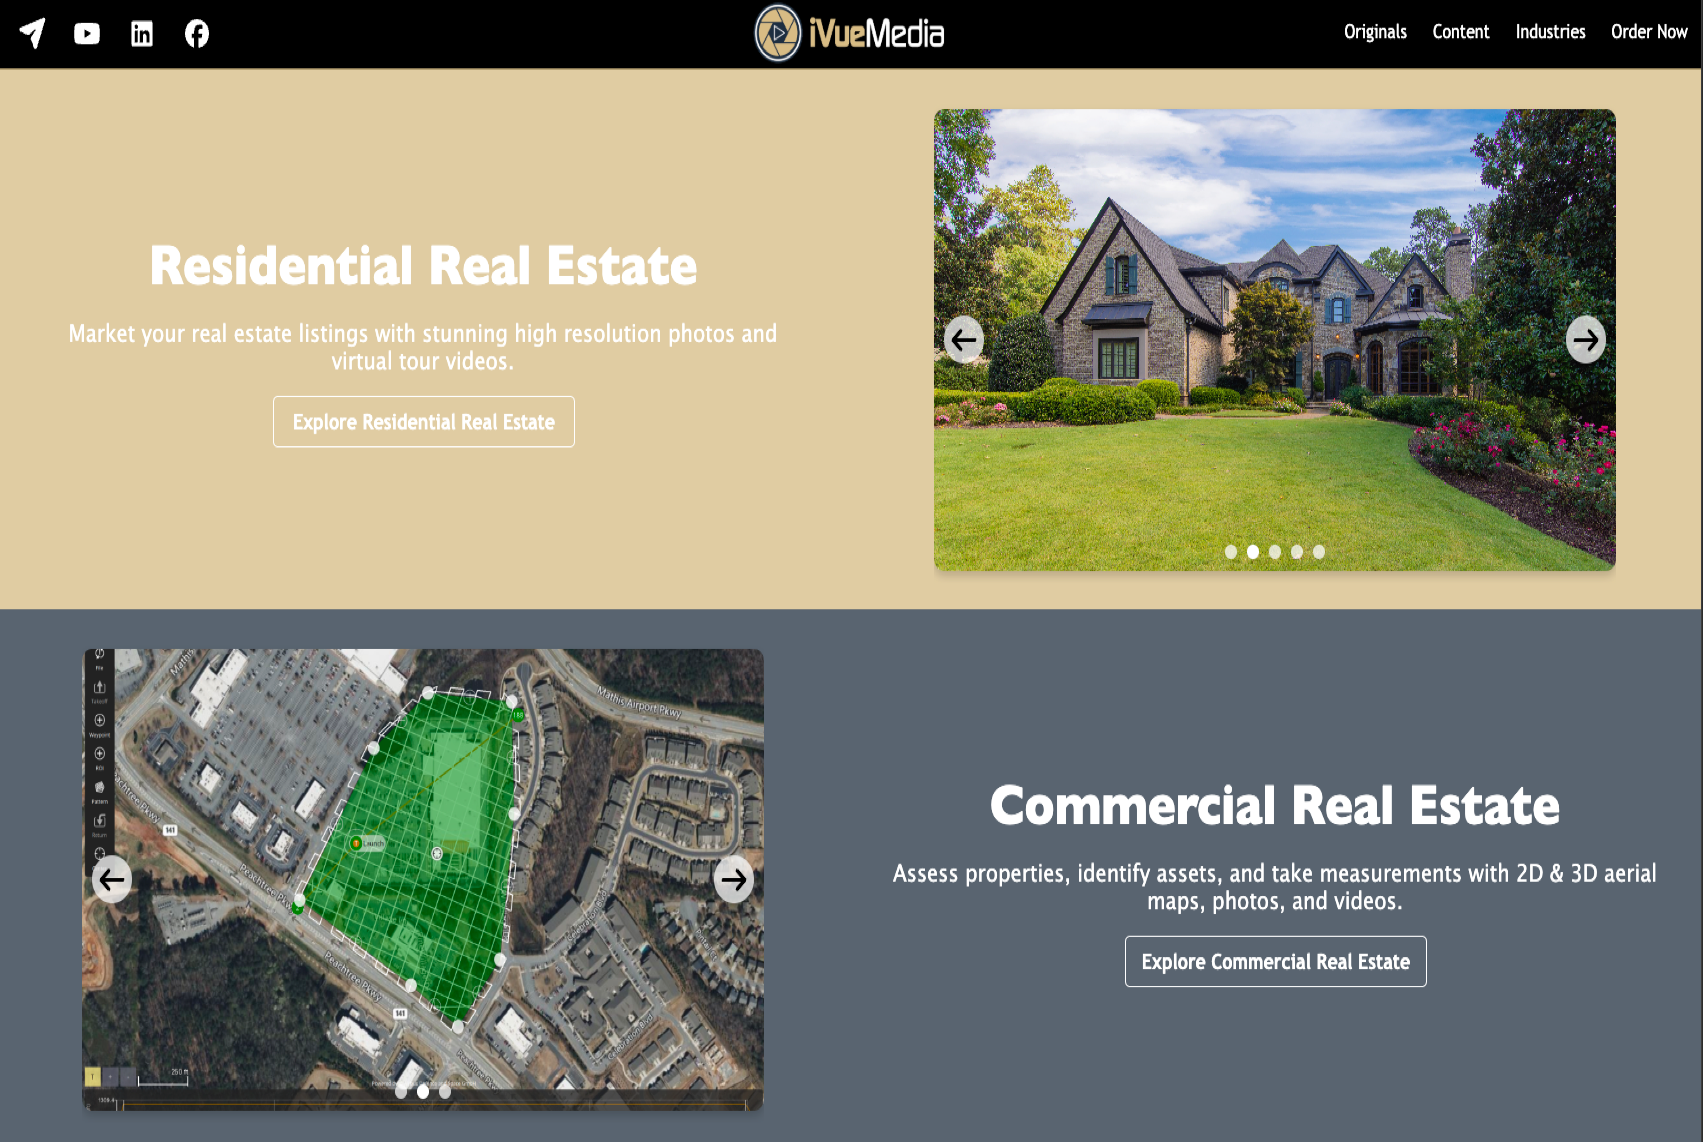
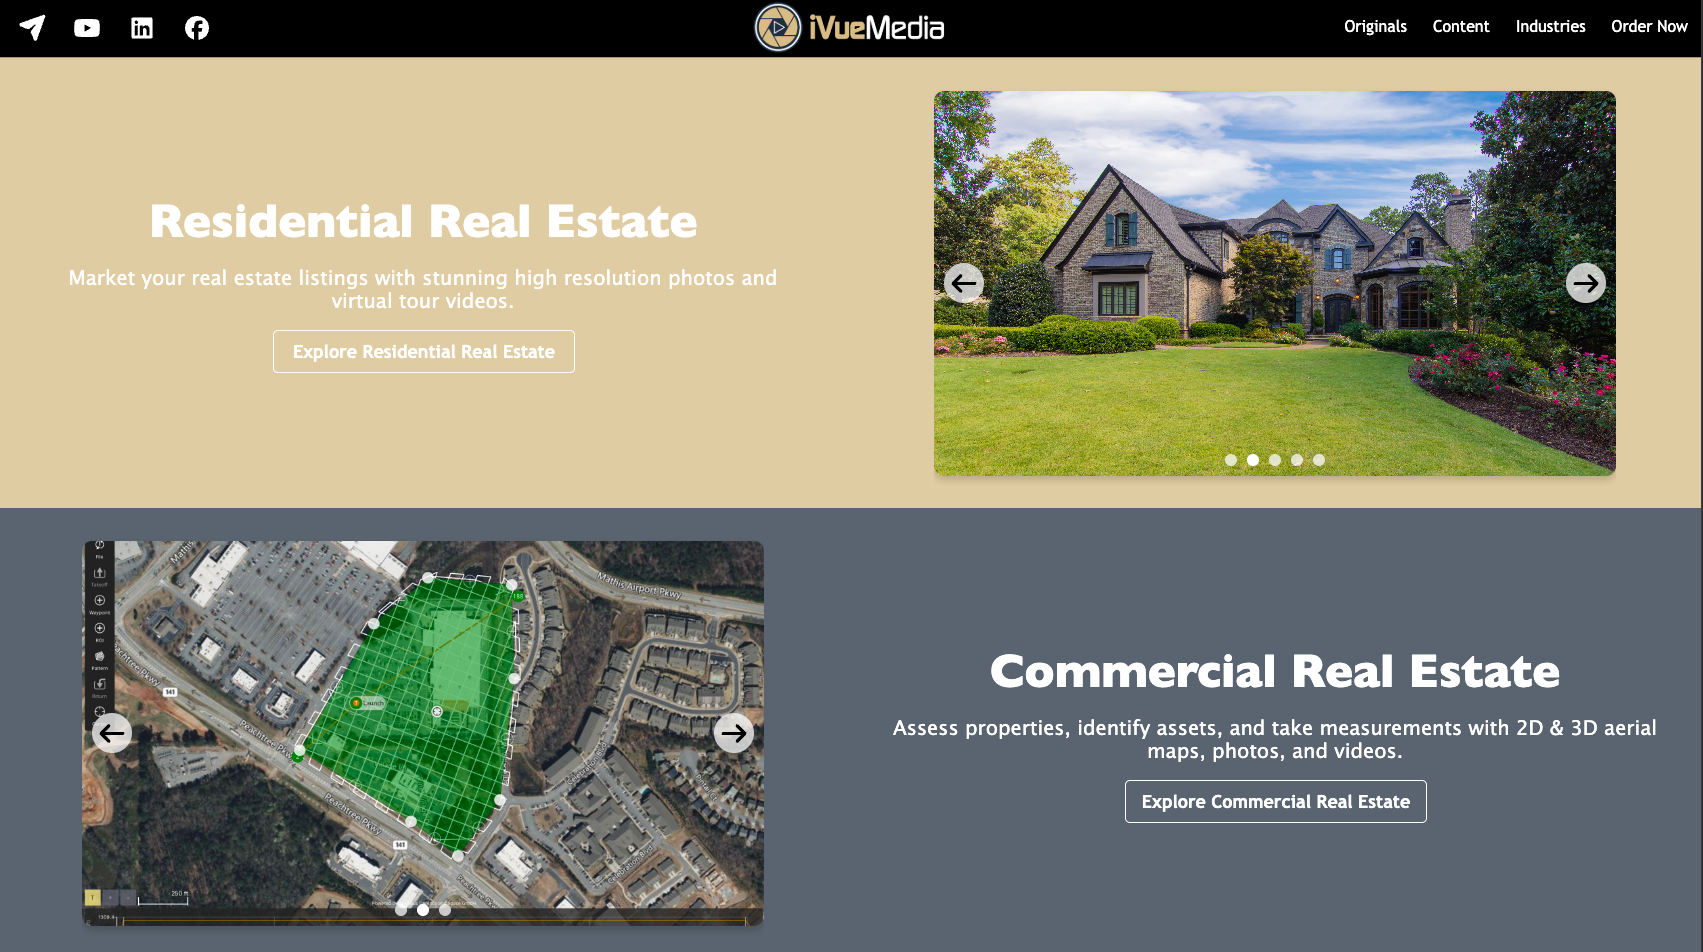
ivue: use canonical wide image; remove incorrect file

diff --git a/src/data/projects/projects.ts b/src/data/projects/projects.ts
@@ -95,10 +95,10 @@ export const ivue: Project = {
     { value: "15+", label: "Partners" },
   ],
   media: {
-    hero: "/projects/ivue/iVue-wide.png",
+    hero: "/projects/ivue/iVue-hero.png",
     feat1: "/projects/ivue/iVue-feat1.png",
     feat2: "/projects/ivue/iVue-feat2.jpg",
-    wide: "/projects/ivue/iVue-hero.png",
+    wide: "/projects/ivue/iVue-wide.png",
     final: "/projects/ivue/iVue-final.jpg",
   },
   imageConfig: {
